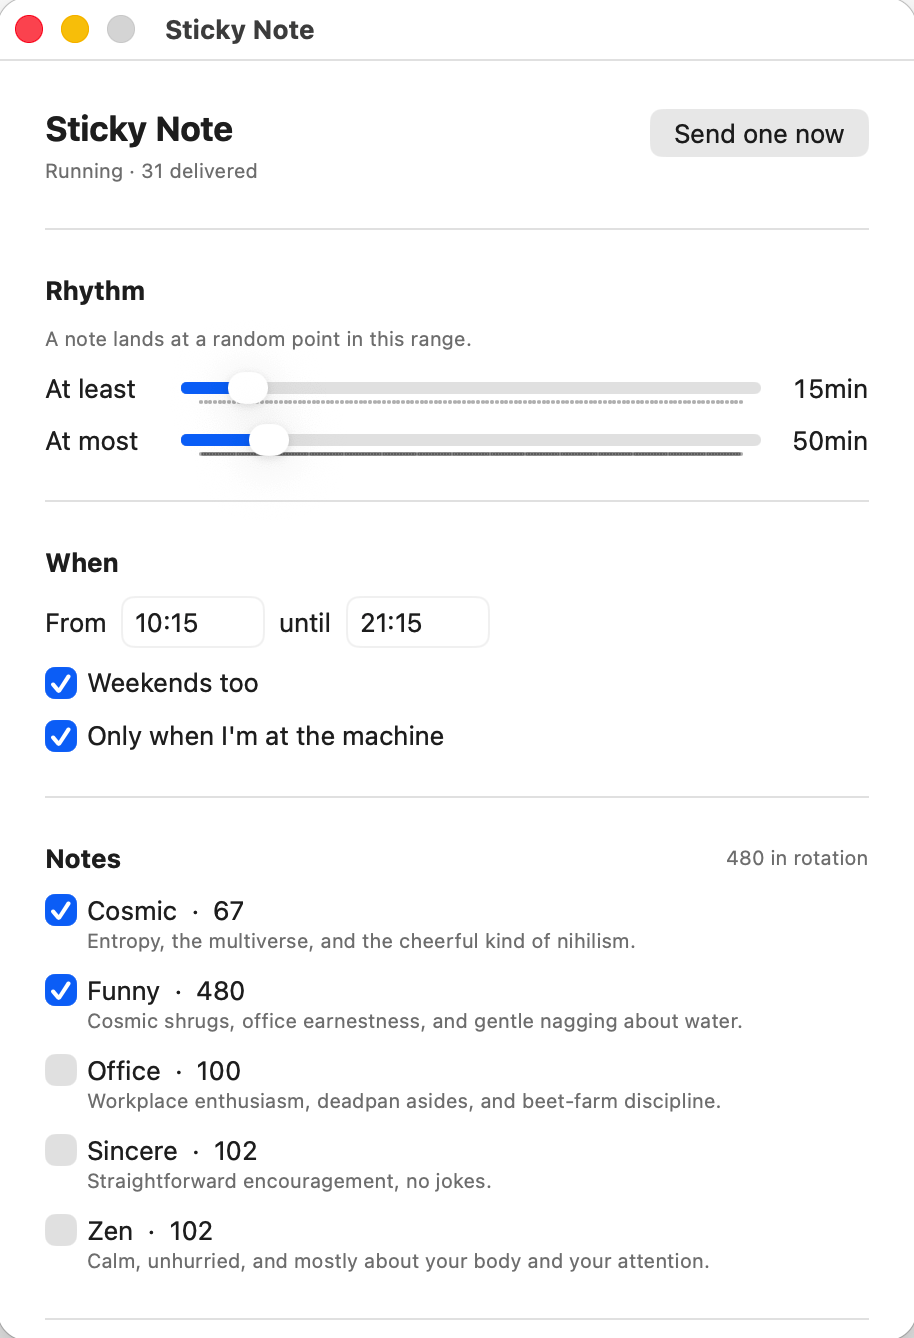
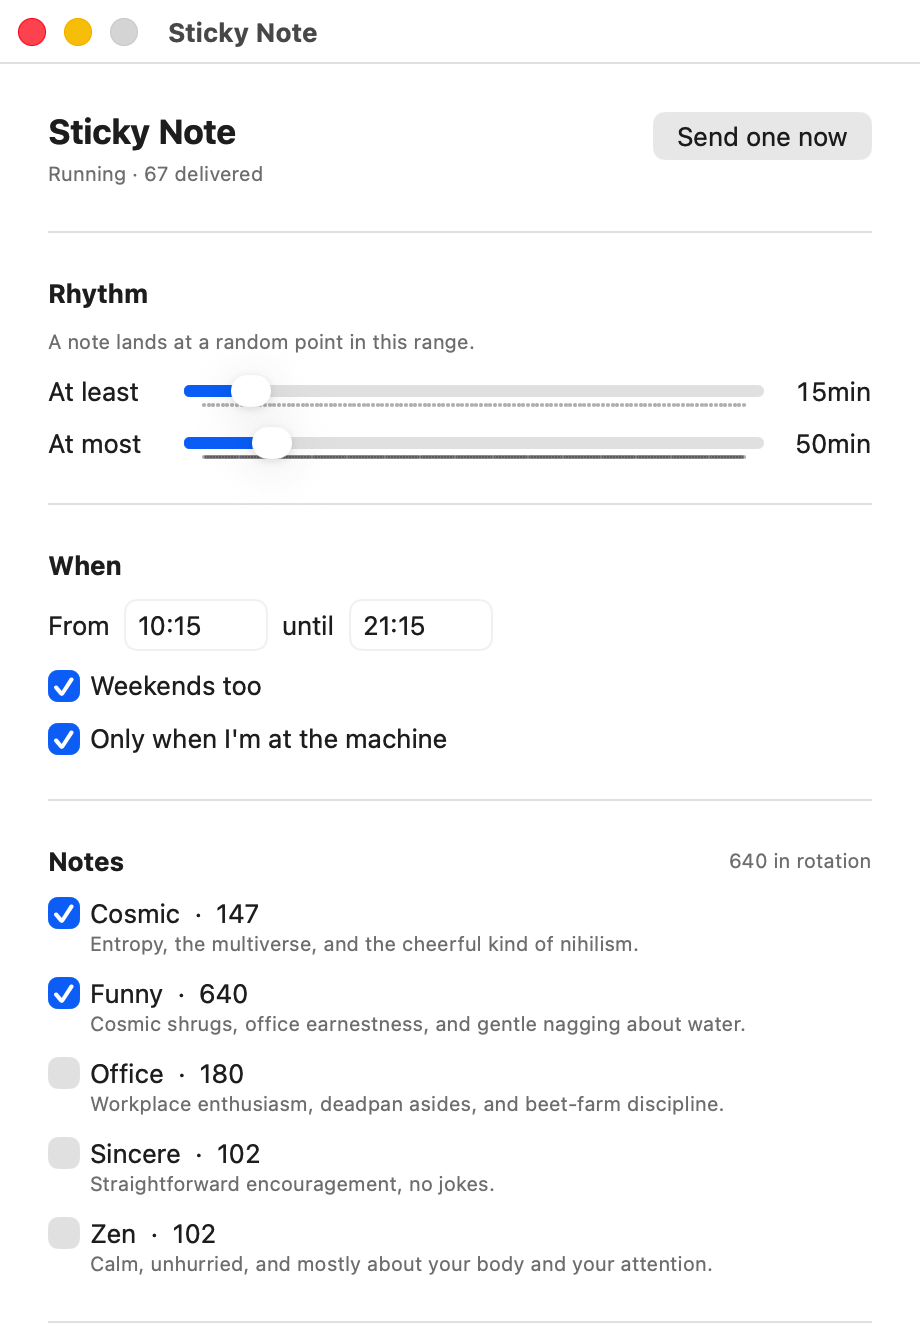
Add 160 more notes in the office and cosmic voices (#14)
The two comedy packs were the thinnest of the five, so a rotation drawing
on them came round again sooner than it should. Doubles office to 180 and
cosmic to 147, which takes the funny blend to 640 and a first repeat from
roughly 24 days out to 32.

Lines are written in the register of those shows rather than quoted from
them. Refreshes the settings screenshot and the counts in the README and
on the landing page to match.

diff --git a/docs/index.html b/docs/index.html
@@ -467,7 +467,7 @@ footer a:hover { border-bottom-color: var(--ink); }
 
     <div class="packs">
       <div class="pack">
-        <span class="pack-name">funny</span><span class="pack-count">480</span>
+        <span class="pack-name">funny</span><span class="pack-count">640</span>
         <span class="pack-desc">Cosmic shrugs, office earnestness, and gentle nagging about water</span>
       </div>
       <div class="pack">
@@ -475,11 +475,11 @@ footer a:hover { border-bottom-color: var(--ink); }
         <span class="pack-desc">Straightforward encouragement, no jokes</span>
       </div>
       <div class="pack">
-        <span class="pack-name">cosmic</span><span class="pack-count">67</span>
+        <span class="pack-name">cosmic</span><span class="pack-count">147</span>
         <span class="pack-desc">Entropy, the multiverse, and the cheerful kind of nihilism</span>
       </div>
       <div class="pack">
-        <span class="pack-name">office</span><span class="pack-count">100</span>
+        <span class="pack-name">office</span><span class="pack-count">180</span>
         <span class="pack-desc">Workplace enthusiasm, deadpan asides, beet-farm discipline</span>
       </div>
       <div class="pack">
@@ -655,7 +655,11 @@ stickynote hooks install</pre>
     ["Go look out a window at something that isn't rendering.", "🪟"],
     ["Let's call this a win and not examine it too closely.", "🎈"],
     ["Every atom in you was forged in a dying star, and now it's doing code review. Wild trajectory.", "⭐"],
-    ["Being tired is not the same as being behind.", "🌙"]
+    ["Being tired is not the same as being behind.", "🌙"],
+    ["The universe is a cold indifferent void and you brought snacks. Advantage: you.", "💫"],
+    ["I've reviewed the data. The data is vibes. The vibes are good.", "📈"],
+    ["Somewhere a version of you nailed this first try. Ignore them, they're insufferable.", "🧩"],
+    ["Management would like to acknowledge your effort. Management is me. Consider it acknowledged.", "👏"]
   ];
 
   var text = document.getElementById('note-text');

diff --git a/README.md b/README.md
@@ -74,10 +74,10 @@ A pack is a named set of notes. Five ship, and they can be mixed:
 
 | Pack | Notes | What it sounds like |
 | --- | --- | --- |
-| `funny` | 480 | Cosmic shrugs, office earnestness, gentle nagging about water |
+| `funny` | 640 | Cosmic shrugs, office earnestness, gentle nagging about water |
 | `sincere` | 102 | Straightforward encouragement, no jokes |
-| `cosmic` | 67 | Entropy, the multiverse, the cheerful kind of nihilism |
-| `office` | 100 | Workplace enthusiasm, deadpan asides, beet-farm discipline |
+| `cosmic` | 147 | Entropy, the multiverse, the cheerful kind of nihilism |
+| `office` | 180 | Workplace enthusiasm, deadpan asides, beet-farm discipline |
 | `zen` | 102 | Calm and unhurried, mostly about your body and your attention |
 
 ```bash
@@ -332,7 +332,7 @@ freshness like this:
 
 | Pool | Times you'd see each line per year | First possible repeat |
 | --- | --- | --- |
-| 480 (today) | ~15 | ~24 days |
+| 640 (today) | ~11 | ~32 days |
 | 1,000 | ~7 | ~7 weeks |
 | 10,000 | ~0.7 | ~1.4 years |
 | 1,000,000 | ~0.007 | ~137 years |
